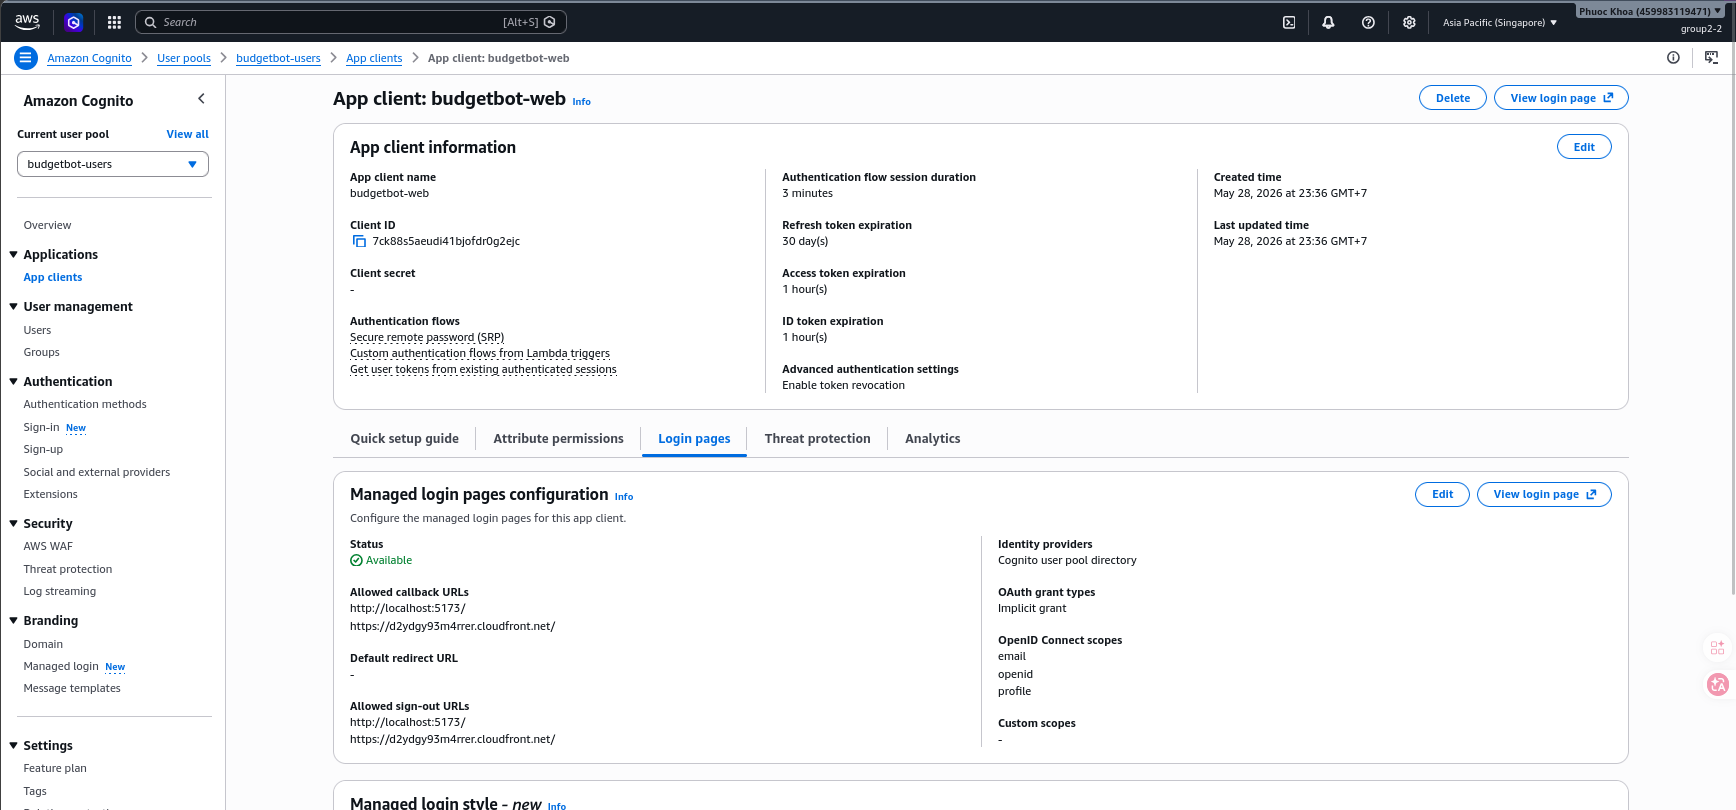
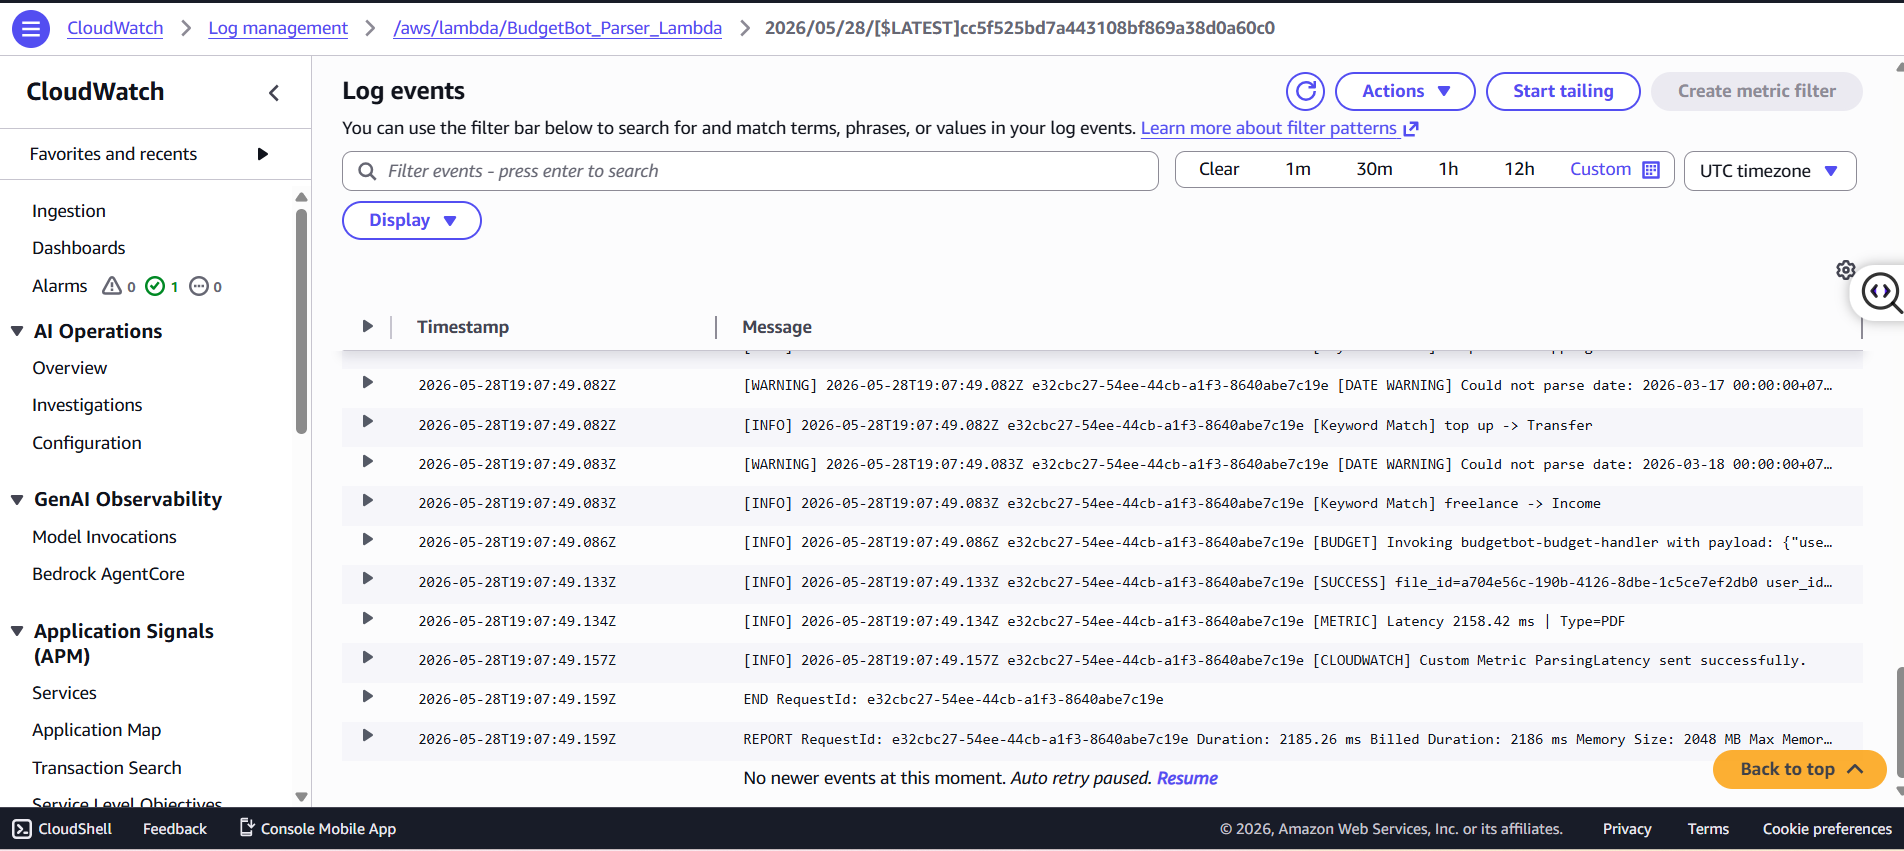
docs: add image-76.png as Cost Explorer Friday Spend evidence

Changed region(s): [[0.0, 0.0, 1.0, 1.0], [0.4355, 0.216, 0.5599, 0.2469], [0.6843, 0.2778, 0.7776, 0.3086]]

diff --git a/docs/W7_evidence.md b/docs/W7_evidence.md
@@ -22,8 +22,8 @@
 
 This report strictly utilizes the canonical screenshot mapping from G2's implementation. All 30 screenshots have been mapped to unique, descriptive filenames inside the `../evidence/images/` directory:
 
-| Canonical Image                | Description / Component Shown                                         | Source / Capture Note                                     | Status      |
-| ------------------------------ | --------------------------------------------------------------------- | --------------------------------------------------------- | ----------- |
+| Canonical Image                   | Description / Component Shown                                         | Source / Capture Note                                     | Status      |
+| --------------------------------- | --------------------------------------------------------------------- | --------------------------------------------------------- | ----------- |
 | `../evidence/images/image-1.png`  | Public frontend homepage loaded successfully over HTTPS               | `01_frontend_public_url.png`                              | 🟢 Verified |
 | `../evidence/images/image-2.png`  | CloudFront Custom Domain (Alternate domain `nvtank.dev`)              | CloudFront Distribution Settings                          | 🟢 Verified |
 | `../evidence/images/image-3.png`  | ACM SSL Certificate issued and validated for `nvtank.dev`             | ACM in `us-east-1` for CloudFront                         | 🟢 Verified |
@@ -661,21 +661,24 @@ TRADE-OFF ACCEPTED:
 
 ### 7.1 Pre-flight Safety
 
-| Safety Check                                                   | Status           | Evidence                       |
-| -------------------------------------------------------------- | ---------------- | ------------------------------ |
-| MFA on root                                                    | ✅ Confirmed     | `MFA enabled`                  |
+| Safety Check                                                   | Status           | Evidence                          |
+| -------------------------------------------------------------- | ---------------- | --------------------------------- |
+| MFA on root                                                    | ✅ Confirmed     | `MFA enabled`                     |
 | Budget Alert @ $80 + SNS email confirmed                       | ✅ Confirmed     | `../evidence/images/image-30.png` |
-| Cost Anomaly Detection enabled                                 | ✅ Confirmed     | `anomaly_detection_enabled`    |
-| Tags applied (`Project=W7Capstone`, `Team=G2`, `Owner=HuuTai`) | ✅ All 30 tagged | Section 8 — Tagging Evidence   |
-| Bedrock model access granted (`nova-micro`, `Llama 3.1`)       | ✅ Confirmed     | `bedrock_access_granted`       |
+| Cost Anomaly Detection enabled                                 | ✅ Confirmed     | `anomaly_detection_enabled`       |
+| Tags applied (`Project=W7Capstone`, `Team=G2`, `Owner=HuuTai`) | ✅ All 30 tagged | Section 8 — Tagging Evidence      |
+| Bedrock model access granted (`nova-micro`, `Llama 3.1`)       | ✅ Confirmed     | `bedrock_access_granted`          |
 
 ### 7.2 Three Required Cost Screenshots
 
-| When                       | Screenshot                     | Spend  |
-| -------------------------- | ------------------------------ | ------ |
-| Day 1 EOD (Wed 28/5)       | Pre-flight logs                | ~$0.00 |
-| Day 2 EOD (Thu 29/5)       | Pre-flight logs                | ~$0.00 |
+| When                       | Screenshot                        | Spend  |
+| -------------------------- | --------------------------------- | ------ |
+| Day 1 EOD (Wed 28/5)       | Pre-flight logs                   | ~$0.00 |
+| Day 2 EOD (Thu 29/5)       | Pre-flight logs                   | ~$0.00 |
 | Friday pre-demo (Fri 30/5) | `../evidence/images/image-30.png` | ~$4.64 |
+
+![Cost Explorer Friday Spend (image-76.png / image-30.png)](image-30.png)
+
 
 ### 7.3 Top-3 Cost Drivers
 